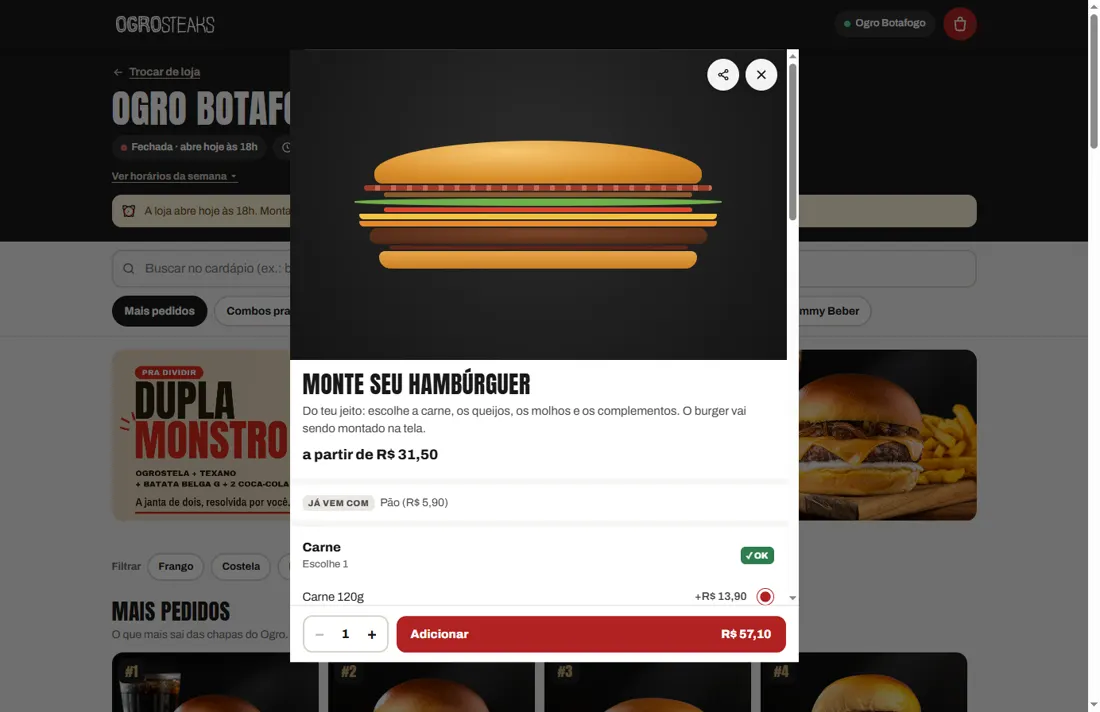
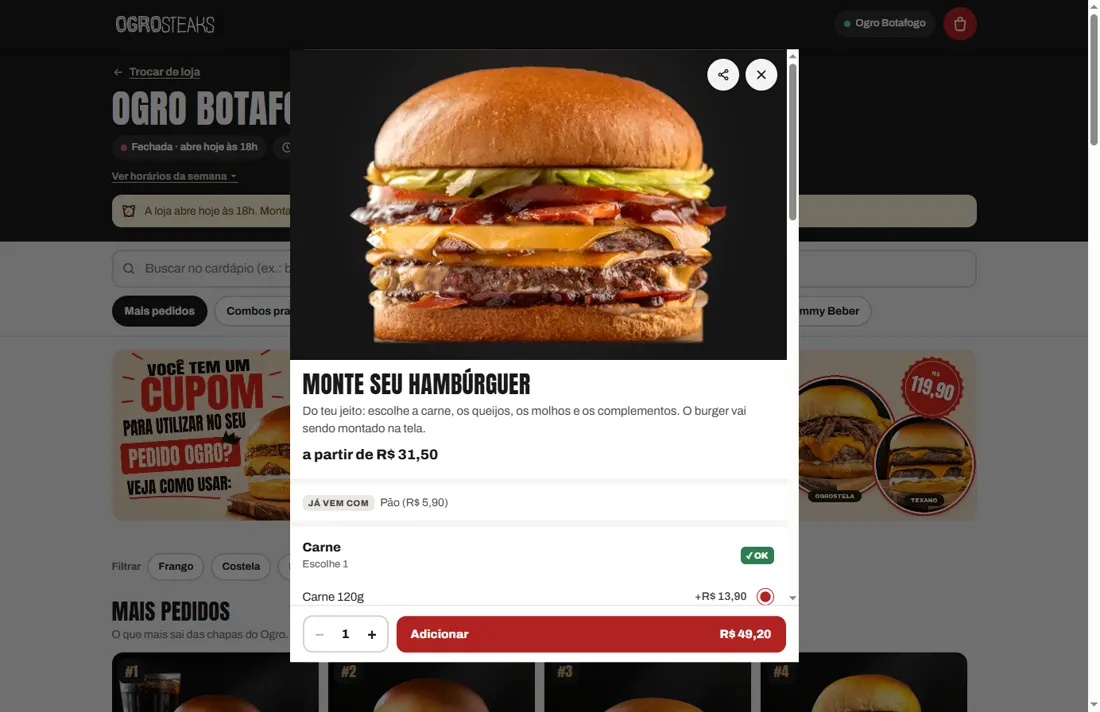
feat(databite-angular): so a comparacao atual, com o prototipo das 14h25 (#54)
- sai a secao 'O que mudou desde a 1a comparacao' e toda referencia a comparacao anterior
- secao 03 vira 'O que veio do Cardapio atual' (o atual faz / o prototipo faz)
- Monte seu hamburguer com as camadas reais (recortes das fotos do cardapio): print e textos novos
- 16 diferenciais, 13 em codigo, 34/34 testes, 44 eventos iguais ao prototipo

diff --git a/databite-angular/index.html b/databite-angular/index.html
@@ -158,7 +158,7 @@
   <div class="wrap">
     <span class="kicker">Piloto 1 · Databite Angular Migration Engine</span>
     <h1 class="display">Cardápio Digital: atual × <em>protótipo</em> × Angular</h1>
-    <p class="lead">O que o protótipo do Ogro faz a mais que o Cardápio Digital de hoje, e cada diferencial já escrito em TypeScript/Angular para o time da Databite revisar e integrar. Comparação refeita em 25/11, às 14h, com a versão do protótipo das 13h52.</p>
+    <p class="lead">O que o protótipo do Ogro faz a mais que o Cardápio Digital de hoje, e cada diferencial já escrito em TypeScript/Angular para o time da Databite revisar e integrar. Comparação feita em 25/11, às 14h30, com a versão do protótipo que está no ar.</p>
     <div class="chips">
       <span class="chip st-info">Prototype only</span>
       <span class="chip st-ok">Regras: 34/34 testes</span>
@@ -176,10 +176,9 @@
 
 <nav aria-label="Seções">
   <div class="wrap">
-    <a href="#novidades">O que mudou</a>
     <a href="#lado-a-lado">Lado a lado</a>
     <a href="#diferenciais">16 diferenciais</a>
-    <a href="#atual-melhor">O que o atual fazia melhor</a>
+    <a href="#atual-melhor">O que veio do atual</a>
     <a href="#arquitetura">Arquitetura</a>
     <a href="#status">Status e testes</a>
     <a href="#databite">O que falta da Databite</a>
@@ -187,17 +186,6 @@
 </nav>
 
 <main class="wrap">
-
-  <section id="novidades">
-    <div class="sec-h"><span class="n">00</span><h2>O que mudou desde a 1ª comparação</h2></div>
-    <p class="sec-sub">A 1ª versão desta página (13h10) comparava 12 diferenciais. O protótipo andou duas vezes depois disso, e a comparação foi refeita contra a versão no ar.</p>
-    <ul class="lista">
-      <li><b>Saíram o "vira combo" e o "Turbina teu burger", que eram simulados.</b> A ficha agora usa as opções reais do Cardápio Digital: Tamanho da fome 120 g/180 g, batata, bebida, "Leva junto com desconto", sachês e burgers do combo, com o mínimo, o máximo e o preço de cada um.</li>
-      <li><b>Tudo o que o Cardápio atual fazia melhor entrou no protótipo, e melhorado:</b> URL própria por produto com botão de compartilhar, "Monte seu hambúrguer" montado na tela, mais bebidas e ampliar imagem (cards 5, 11, 13 e 14).</li>
-      <li><b>Novos: acessibilidade AA e app instalável (PWA)</b> (cards 15 e 16). O Cardápio atual não tem manifesto nem service worker, ou seja, não instala na tela e não abre sem internet (verificado em 25/11).</li>
-      <li><b>No código:</b> 34 testes (eram 28) e lista de eventos alinhada com o protótipo (44 eventos; saiu o <code>upsell_combo</code>).</li>
-    </ul>
-  </section>
 
   <section id="lado-a-lado">
     <div class="sec-h"><span class="n">01</span><h2>Lado a lado</h2></div>
@@ -223,7 +211,7 @@
       <h3>Monte seu hambúrguer</h3>
       <div class="pair">
         <figure class="shot"><img src="img/atual-monte.webp" alt="Cardápio atual: Monte seu hambúrguer com foto de outro burger, preço R$ 0,00 e o grupo Pão obrigatório com uma opção só" width="1100" height="712" loading="lazy"><figcaption><span class="tag tag-atual">Atual</span><span>Foto de outro burger; R$ 0,00; pede para escolher o único pão</span></figcaption></figure>
-        <figure class="shot"><img src="img/prototipo-monte.webp" alt="Protótipo: Monte seu hambúrguer com o burger desenhado em camadas (pão, carne, queijos, bacon, alface, tomate), a partir de R$ 31,50, Já vem com Pão e total R$ 57,10" width="1100" height="712" loading="lazy"><figcaption><span class="tag tag-novo">Protótipo</span><span>O burger montado em camadas; "Já vem com Pão"; preço real</span></figcaption></figure>
+        <figure class="shot"><img src="img/prototipo-monte.webp" alt="Protótipo: Monte seu hambúrguer com o burger montado a partir de recortes das fotos do cardápio (pão, carne, queijos, barbecue, bacon, tomate, alface), a partir de R$ 31,50 e Já vem com Pão" width="1100" height="712" loading="lazy"><figcaption><span class="tag tag-novo">Protótipo</span><span>Burger montado com recortes das fotos do cardápio; "Já vem com Pão"</span></figcaption></figure>
       </div>
     </div>
   </section>
@@ -1421,10 +1409,11 @@
   { ga4: <span class="s">'erro_tecnico'</span>, quando: <span class="s">'Script quebrado ou foto/vídeo que não carregou (até 10 por sessão)'</span> },
 ];</code></pre></details>
       </article>
+
       <article class="dif" data-st="ok">
-        <div class="dif-top"><span class="dif-n">13</span><div><h3>“Monte seu hambúrguer” montado na tela</h3><div class="meta"><span class="chip st-ok">3 testes ok</span><span class="chip st-info">Grupos e preços do atual</span></div></div></div>
-        <div class="vs"><div><b>Atual</b>Vende o “Monte seu hambúrguer” com os grupos certos, mas mostra a foto de outro burger (Ogro Festival).</div><div class="novo"><b>Protótipo</b>Mesmos grupos e preços; o burger vai sendo montado com camadas REAIS, recortadas das fotos oficiais do cardápio (pão, carnes, queijos, salada, molhos), na ordem certa e com descrição para leitor de tela.</div></div>
-        <details class="cod"><summary>Ver código · monte.ts</summary><span class="arq-nome">src/app/features/cardapio/domain/monte.ts</span><pre><code><span class="k">import</span> <span class="k">type</span> { Produto, Selecao } <span class="k">from</span> <span class="s">'./models'</span>;
+        <div class="dif-top"><span class="dif-n">13</span><div><h3>"Monte seu hambúrguer" montado na tela</h3><div class="meta"><span class="chip st-ok">3 testes ok</span><span class="chip st-info">Grupos e preços do atual</span></div></div></div>
+        <div class="vs"><div><b>Atual</b>Vende com os grupos certos, mas mostra a foto de outro burger e o preço R$ 0,00.</div><div class="novo"><b>Protótipo</b>Mesmos grupos e preços, "a partir de R$ 31,50"; cada escolha vira uma camada recortada das fotos oficiais do cardápio, empilhada na ordem real; só a camada nova cai na tela; descrição para leitor de tela.</div></div>
+        <details class="cod"><summary>Ver código · monte.ts + monte-preview.component.ts</summary><span class="arq-nome">src/app/features/cardapio/domain/monte.ts</span><pre><code><span class="k">import</span> <span class="k">type</span> { Produto, Selecao } <span class="k">from</span> <span class="s">'./models'</span>;
 
 <span class="c">/**
  * DIFERENCIAL 13 · "Monte seu hambúrguer" montado na tela, com camadas REAIS.
@@ -1445,26 +1434,26 @@
 
 <span class="c">/** Largura × altura de cada recorte, em px, na mesma escala (pão de cima = 640). Saída do gerador. */</span>
 <span class="k">export</span> <span class="k">const</span> TAMANHO_CAMADA: Readonly&lt;Record&lt;ArquivoCamada, <span class="k">readonly</span> [number, number]&gt;&gt; = {
-  <span class="s">'pao-topo'</span>: [640, 206], <span class="s">'carne-120'</span>: [663, 67], <span class="s">'carne-180'</span>: [662, 93], american: [676, 65], cheddar: [677, 47], maionese: [663, 42],
-  smoke: [665, 42], barbecue: [664, 44], ketchup: [658, 35], bacon: [736, 68], alface: [686, 62], tomate: [673, 39],
-  <span class="s">'cebola-car'</span>: [664, 79], <span class="s">'cebola-roxa'</span>: [665, 42], picles: [656, 59], <span class="s">'pao-base'</span>: [640, 90],
+  <span class="s">'pao-topo'</span>: [<span class="n">640</span>, <span class="n">206</span>], <span class="s">'carne-120'</span>: [<span class="n">663</span>, <span class="n">67</span>], <span class="s">'carne-180'</span>: [<span class="n">662</span>, <span class="n">93</span>], american: [<span class="n">676</span>, <span class="n">65</span>], cheddar: [<span class="n">677</span>, <span class="n">47</span>], maionese: [<span class="n">663</span>, <span class="n">42</span>],
+  smoke: [<span class="n">665</span>, <span class="n">42</span>], barbecue: [<span class="n">664</span>, <span class="n">44</span>], ketchup: [<span class="n">658</span>, <span class="n">35</span>], bacon: [<span class="n">736</span>, <span class="n">68</span>], alface: [<span class="n">686</span>, <span class="n">62</span>], tomate: [<span class="n">673</span>, <span class="n">39</span>],
+  <span class="s">'cebola-car'</span>: [<span class="n">664</span>, <span class="n">79</span>], <span class="s">'cebola-roxa'</span>: [<span class="n">665</span>, <span class="n">42</span>], picles: [<span class="n">656</span>, <span class="n">59</span>], <span class="s">'pao-base'</span>: [<span class="n">640</span>, <span class="n">90</span>],
 };
 
 <span class="k">const</span> POR_NOME: ReadonlyArray&lt;<span class="k">readonly</span> [RegExp, ArquivoCamada]&gt; = [
   [/maionese de alho/, <span class="s">'maionese'</span>], [/smoke/, <span class="s">'smoke'</span>], [/ketchup/, <span class="s">'ketchup'</span>], [/barbecue/, <span class="s">'barbecue'</span>],
   [/american cheese/, <span class="s">'american'</span>], [/cheddar/, <span class="s">'cheddar'</span>], [/alface/, <span class="s">'alface'</span>], [/tomate/, <span class="s">'tomate'</span>], [/picles/, <span class="s">'picles'</span>],
-  [/cebola roxa/, <span class="s">'cebola-roxa'</span>], [/cebola caramelizada/, <span class="s">'cebola-car'</span>], [/bacon/, <span class="s">'bacon'</span>], [/180/, <span class="s">'carne-180'</span>], [/120/, <span class="s">'carne-120'</span>],
+  [/cebola roxa/, <span class="s">'cebola-roxa'</span>], [/cebola caramelizada/, <span class="s">'cebola-car'</span>], [/bacon/, <span class="s">'bacon'</span>], [/<span class="n">180</span>/, <span class="s">'carne-180'</span>], [/<span class="n">120</span>/, <span class="s">'carne-120'</span>],
 ];
 <span class="k">const</span> ORDEM_SALADA: ReadonlyArray&lt;ArquivoCamada&gt; = [<span class="s">'alface'</span>, <span class="s">'tomate'</span>, <span class="s">'picles'</span>, <span class="s">'cebola-roxa'</span>, <span class="s">'cebola-car'</span>, <span class="s">'bacon'</span>];
 
 <span class="k">const</span> semAcento = (s: string) =&gt; s.normalize(<span class="s">'NFD'</span>).replace(/[̀-ͯ]/g, <span class="s">''</span>).toLowerCase();
-<span class="k">const</span> arquivoDe = (nome: string): ArquivoCamada | null =&gt; POR_NOME.find(([re]) =&gt; re.test(semAcento(nome)))?.[1] ?? null;
+<span class="k">const</span> arquivoDe = (nome: string): ArquivoCamada | <span class="k">null</span> =&gt; POR_NOME.find(([re]) =&gt; re.test(semAcento(nome)))?.[<span class="n">1</span>] ?? <span class="k">null</span>;
 
 <span class="c">/** Nomes escolhidos num grupo (pelo título), na ordem das opções do cardápio. */</span>
 <span class="k">function</span> escolhidos(produto: Produto, sel: Selecao, titulo: string): string[] {
   <span class="k">const</span> g = produto.grupos.find(x =&gt; semAcento(x.titulo) === semAcento(titulo));
   <span class="k">if</span> (!g) <span class="k">return</span> [];
-  <span class="k">return</span> g.opcoes.filter(o =&gt; (sel[g.id]?.[o.id] ?? 0) &gt; 0).map(o =&gt; o.nome);
+  <span class="k">return</span> g.opcoes.filter(o =&gt; (sel[g.id]?.[o.id] ?? <span class="n">0</span>) &gt; <span class="n">0</span>).map(o =&gt; o.nome);
 }
 
 <span class="k">export</span> <span class="k">interface</span> CamadaPosicionada {
@@ -1484,25 +1473,24 @@
 }
 
 <span class="k">export</span> <span class="k">function</span> montarBurger(produto: Produto, sel: Selecao): Montagem {
-  <span class="k">const</span> carne = escolhidos(produto, sel, <span class="s">'Carne'</span>)[0];
+  <span class="k">const</span> carne = escolhidos(produto, sel, <span class="s">'Carne'</span>)[<span class="n">0</span>];
   <span class="k">const</span> queijos = escolhidos(produto, sel, <span class="s">'Queijos'</span>), molhos = escolhidos(produto, sel, <span class="s">'Molhos'</span>), compl = escolhidos(produto, sel, <span class="s">'Complementos'</span>);
   <span class="k">const</span> arqs = (xs: ReadonlyArray&lt;string&gt;) =&gt; xs.map(arquivoDe).filter((a): a is ArquivoCamada =&gt; !!a);
   <span class="k">const</span> salada = arqs(compl).sort((a, b) =&gt; ORDEM_SALADA.indexOf(a) - ORDEM_SALADA.indexOf(b));
-  <span class="k">const</span> ordem: Array&lt;ArquivoCamada | <span class="s">'vazio'</span>&gt; = [<span class="s">'pao-topo'</span>, ...arqs(molhos.slice(1)), ...salada, ...arqs(queijos),
-    carne ? (arquivoDe(carne) ?? <span class="s">'carne-120'</span>) : <span class="s">'vazio'</span>, ...arqs(molhos.slice(0, 1)), <span class="s">'pao-base'</span>];
-  <span class="k">const</span> L = 780; <span class="k">let</span> y = 0; <span class="k">const</span> camadas: CamadaPosicionada[] = [];
+  <span class="k">const</span> ordem: Array&lt;ArquivoCamada | <span class="s">'vazio'</span>&gt; = [<span class="s">'pao-topo'</span>, ...arqs(molhos.slice(<span class="n">1</span>)), ...salada, ...arqs(queijos),
+    carne ? (arquivoDe(carne) ?? <span class="s">'carne-120'</span>) : <span class="s">'vazio'</span>, ...arqs(molhos.slice(<span class="n">0</span>, <span class="n">1</span>)), <span class="s">'pao-base'</span>];
+  <span class="k">const</span> L = <span class="n">780</span>; <span class="k">let</span> y = <span class="n">0</span>; <span class="k">const</span> camadas: CamadaPosicionada[] = [];
   ordem.forEach((a, k) =&gt; {
-    <span class="k">const</span> [w, h] = a === <span class="s">'vazio'</span> ? [600, 70] : TAMANHO_CAMADA[a];
-    <span class="k">const</span> anterior = ordem[k - 1];
-    <span class="k">if</span> (k &amp;&amp; a !== <span class="s">'vazio'</span> &amp;&amp; anterior !== <span class="s">'vazio'</span>) y -= Math.round(h * 0.28) + (anterior === <span class="s">'pao-topo'</span> ? 14 : 0);
-    else <span class="k">if</span> (a === <span class="s">'vazio'</span>) y += 8;
-    camadas.push({ arquivo: a, x: (L - w) / 2, y, largura: w, altura: h });
+    <span class="k">const</span> [w, h] = a === <span class="s">'vazio'</span> ? [<span class="n">600</span>, <span class="n">70</span>] : TAMANHO_CAMADA[a];
+    <span class="k">const</span> anterior = ordem[k - <span class="n">1</span>];
+    <span class="k">if</span> (k &amp;&amp; a !== <span class="s">'vazio'</span> &amp;&amp; anterior !== <span class="s">'vazio'</span>) y -= Math.round(h * <span class="n">0.28</span>) + (anterior === <span class="s">'pao-topo'</span> ? <span class="n">14</span> : <span class="n">0</span>);
+    <span class="k">else</span> <span class="k">if</span> (a === <span class="s">'vazio'</span>) y += <span class="n">8</span>;
+    camadas.push({ arquivo: a, x: (L - w) / <span class="n">2</span>, y, largura: w, altura: h });
     y += h;
   });
   <span class="k">const</span> itens = [carne, ...queijos, ...molhos, ...compl].filter(Boolean);
   <span class="k">return</span> { camadas, largura: L, altura: y, temCarne: !!carne, descricao: itens.length ? <span class="s">`Teu burger: ${itens.join(', ')}`</span> : <span class="s">'Monte teu burger'</span> };
-}
-</code></pre></details><details class="cod"><summary>Ver código · monte-preview.component.ts</summary><span class="arq-nome">src/app/features/cardapio/ui/monte-preview.component.ts</span><pre><code><span class="k">import</span> { ChangeDetectionStrategy, Component, computed, input } <span class="k">from</span> <span class="s">'@angular/core'</span>;
+}</code></pre><span class="arq-nome">src/app/features/cardapio/ui/monte-preview.component.ts</span><pre><code><span class="k">import</span> { ChangeDetectionStrategy, Component, computed, input } <span class="k">from</span> <span class="s">'@angular/core'</span>;
 <span class="k">import</span> <span class="k">type</span> { Montagem } <span class="k">from</span> <span class="s">'../domain/monte'</span>;
 
 <span class="c">/**
@@ -1515,7 +1503,7 @@
  * - para leitor de tela, o desenho é UMA imagem com a descrição do burger (role="img");
  * - com "menos movimento", nada anima.
  */</span>
-@Component({
+<span class="d">@Component</span>({
   selector: <span class="s">'app-monte-preview'</span>,
   standalone: <span class="k">true</span>,
   changeDetection: ChangeDetectionStrategy.OnPush,
@@ -1548,16 +1536,16 @@
   <span class="c">/** Pasta das camadas (CDN da Databite quando existir; no protótipo, 'img'). */</span>
   <span class="k">readonly</span> base = input(<span class="s">'img'</span>);
 
-  <span class="k">protected</span> <span class="k">readonly</span> viewBox = computed(() =&gt; <span class="s">`-10 -16 ${this.montagem().largura + 20} ${this.montagem().altura + 32}`</span>);
+  protected <span class="k">readonly</span> viewBox = computed(() =&gt; <span class="s">`-10 -16 ${this.montagem().largura + 20} ${this.montagem().altura + 32}`</span>);
   <span class="c">/** Ordem de desenho: de baixo para cima; o "vazio" por último (por cima). */</span>
-  <span class="k">protected</span> <span class="k">readonly</span> ordemDesenho = computed(() =&gt;
-    [...this.montagem().camadas].reverse().sort((a, b) =&gt; Number(a.arquivo === <span class="s">'vazio'</span>) - Number(b.arquivo === <span class="s">'vazio'</span>)));
-}
-</code></pre></details>
+  protected <span class="k">readonly</span> ordemDesenho = computed(() =&gt;
+    [...<span class="k">this</span>.montagem().camadas].reverse().sort((a, b) =&gt; Number(a.arquivo === <span class="s">'vazio'</span>) - Number(b.arquivo === <span class="s">'vazio'</span>)));
+}</code></pre></details>
       </article>
-      <article class="dif" data-st="ok">
-        <div class="dif-top"><span class="dif-n">14</span><div><h3>Ampliar imagem e “Já vem com”</h3><div class="meta"><span class="chip st-ok">3 testes ok</span><span class="chip st-warn">Componente · sem teste</span></div></div></div>
-        <div class="vs"><div><b>Atual</b>Tem “Ampliar imagem”; pede toque até em grupo de uma opção só e não pré-marca a opção grátis.</div><div class="novo"><b>Protótipo</b>Foto grande só baixa quando o cliente pede e aproxima no toque; grupo de uma opção vem marcado; Fome normal e Batata P vêm marcadas (nunca opção paga).</div></div>
+
+      <article class="dif" data-st="parcial">
+        <div class="dif-top"><span class="dif-n">14</span><div><h3>Ampliar imagem, sem pesar</h3><div class="meta"><span class="chip st-warn">Angular · sem teste</span></div></div></div>
+        <div class="vs"><div><b>Atual</b>"Ampliar imagem".</div><div class="novo"><b>Protótipo</b>A foto grande (até 1200 px, AVIF ~45 KB) só baixa quando o cliente toca; o toque aproxima no ponto tocado; Esc ou toque fora fecha.</div></div>
         <details class="cod"><summary>Ver código · zoom-foto.component.ts</summary><span class="arq-nome">src/app/features/cardapio/ui/zoom-foto.component.ts</span><pre><code><span class="k">import</span> { ChangeDetectionStrategy, Component, ElementRef, afterNextRender, inject, input, output, signal, viewChild } <span class="k">from</span> <span class="s">'@angular/core'</span>;
 
 <span class="c">/**
@@ -1568,7 +1556,7 @@
  * - Foco vai para o ✕ ao abrir; quem abriu devolve o foco ao fechar (padrão das camadas da casa).
  * Formatos: AVIF com WebP de reserva (bancada de 25/11: AVIF ~24% menor na mesma nitidez).
  */</span>
-@Component({
+<span class="d">@Component</span>({
   selector: <span class="s">'app-zoom-foto'</span>,
   standalone: <span class="k">true</span>,
   changeDetection: ChangeDetectionStrategy.OnPush,
@@ -1600,138 +1588,35 @@
   <span class="c">/** Caminho da foto grande SEM extensão (ex.: 'img/z-mcmanis'); vem do campo de mídia do produto (B16). */</span>
   <span class="k">readonly</span> base = input.required&lt;string&gt;();
   <span class="k">readonly</span> nome = input.required&lt;string&gt;();
-  <span class="k">readonly</span> fechar = output&lt;void&gt;();
+  <span class="k">readonly</span> fechar = output&lt;<span class="k">void</span>&gt;();
 
-  <span class="k">protected</span> <span class="k">readonly</span> perto = signal(<span class="k">false</span>);
+  protected <span class="k">readonly</span> perto = signal(<span class="k">false</span>);
   <span class="k">private</span> <span class="k">readonly</span> caixa = viewChild.required&lt;ElementRef&lt;HTMLElement&gt;&gt;(<span class="s">'caixa'</span>);
   <span class="k">private</span> <span class="k">readonly</span> fecharBt = viewChild.required&lt;ElementRef&lt;HTMLButtonElement&gt;&gt;(<span class="s">'fecharBt'</span>);
 
   constructor() {
-    afterNextRender(() =&gt; this.fecharBt().nativeElement.focus({ preventScroll: <span class="k">true</span> }));
+    afterNextRender(() =&gt; <span class="k">this</span>.fecharBt().nativeElement.focus({ preventScroll: <span class="k">true</span> }));
   }
 
-  <span class="k">protected</span> alternar(ev: MouseEvent): void {
+  protected alternar(ev: MouseEvent): <span class="k">void</span> {
     ev.stopPropagation();
-    <span class="k">const</span> img = ev.target as HTMLImageElement, r = img.getBoundingClientRect();
+    <span class="k">const</span> img = ev.target <span class="k">as</span> HTMLImageElement, r = img.getBoundingClientRect();
     <span class="k">const</span> fx = (ev.clientX - r.left) / r.width, fy = (ev.clientY - r.top) / r.height;
-    this.perto.update(v =&gt; !v);
-    <span class="k">if</span> (this.perto()) {
+    <span class="k">this</span>.perto.update(v =&gt; !v);
+    <span class="k">if</span> (<span class="k">this</span>.perto()) {
       requestAnimationFrame(() =&gt; {
-        <span class="k">const</span> c = this.caixa().nativeElement;
-        c.scrollLeft = fx * c.scrollWidth - c.clientWidth / 2;
-        c.scrollTop = fy * c.scrollHeight - c.clientHeight / 2;
+        <span class="k">const</span> c = <span class="k">this</span>.caixa().nativeElement;
+        c.scrollLeft = fx * c.scrollWidth - c.clientWidth / <span class="n">2</span>;
+        c.scrollTop = fy * c.scrollHeight - c.clientHeight / <span class="n">2</span>;
       });
     }
   }
 
-  <span class="k">protected</span> fora(ev: MouseEvent): void {
-    <span class="k">const</span> alvo = ev.target as HTMLElement;
-    <span class="k">if</span> (alvo.classList.contains(<span class="s">'zoom'</span>) || alvo.classList.contains(<span class="s">'zoom__foto'</span>)) this.fechar.emit();
+  protected fora(ev: MouseEvent): <span class="k">void</span> {
+    <span class="k">const</span> alvo = ev.target <span class="k">as</span> HTMLElement;
+    <span class="k">if</span> (alvo.classList.contains(<span class="s">'zoom'</span>) || alvo.classList.contains(<span class="s">'zoom__foto'</span>)) <span class="k">this</span>.fechar.emit();
   }
-}
-</code></pre></details><details class="cod"><summary>Ver código · selecao.ts</summary><span class="arq-nome">src/app/features/cardapio/domain/selecao.ts</span><pre><code><span class="k">import</span> <span class="k">type</span> { Centavos, GrupoOpcoes, Produto, Selecao } <span class="k">from</span> <span class="s">'./models'</span>;
-
-<span class="c">/**
- * DIFERENCIAL 5 · Ficha do produto que guia a escolha.
- *
- * Ficamos com o melhor de cada lado:
- * - Do Cardápio atual, o MODELO: grupos com mínimo, máximo e obrigatório, vindos da API.
- *   O protótipo tinha regras fixas por tipo de produto e isso não escala.
- * - Do protótipo, a EXPERIÊNCIA: o botão diz o que falta ("Escolhe a bebida",
- *   "Escolhe mais 2"), o preço atualiza na hora e um grupo condicional só aparece quando faz sentido.
- */</span>
-
-<span class="k">const</span> total = (sel: Selecao, grupoId: string): number =&gt;
-  Object.values(sel[grupoId] ?? {}).reduce((a, b) =&gt; a + b, 0);
-
-<span class="c">/**
- * Seleção inicial da ficha (protótipo, 25/11 · "o que o atual faz melhor, faça melhor também"):
- * - grupo obrigatório de UMA opção só ("Pão", "Pegue seu Ogrostela") já vem marcado e aparece como "Já vem com";
- * - grupo obrigatório de 1 escolha em que só UMA opção é grátis e as outras custam (Fome normal × Fome de Ogro,
- *   Batata P × G) já vem com a grátis: o cliente só toca se quiser mudar. Nunca pré-marca opção paga.
- * Bebida (todas grátis) continua sem pré-seleção: o sabor é escolha do cliente.
- */</span>
-<span class="k">export</span> <span class="k">function</span> selecaoPadrao(produto: Produto): Selecao {
-  <span class="k">const</span> sel: Record&lt;string, Record&lt;string, number&gt;&gt; = {};
-  <span class="k">for</span> (<span class="k">const</span> g <span class="k">of</span> produto.grupos) {
-    <span class="k">if</span> (g.visivelSe || g.min &lt; 1) continue;
-    <span class="k">if</span> (g.opcoes.length === 1 &amp;&amp; g.max === 1) { sel[g.id] = { [g.opcoes[0].id]: 1 }; continue; }
-    <span class="k">if</span> (g.min === 1 &amp;&amp; g.max === 1) {
-      <span class="k">const</span> gratis = g.opcoes.filter(o =&gt; o.preco === 0);
-      <span class="k">if</span> (gratis.length === 1 &amp;&amp; g.opcoes.length &gt; 1) sel[g.id] = { [gratis[0].id]: 1 };
-    }
-  }
-  <span class="k">return</span> sel;
-}
-
-<span class="c">/** Grupos que vêm resolvidos (uma opção só): a tela mostra numa linha "Já vem com", sem pedir toque. */</span>
-<span class="k">export</span> <span class="k">const</span> jaVemCom = (produto: Produto): ReadonlyArray&lt;GrupoOpcoes&gt; =&gt;
-  produto.grupos.filter(g =&gt; g.min &gt;= 1 &amp;&amp; g.max === 1 &amp;&amp; g.opcoes.length === 1 &amp;&amp; !g.visivelSe);
-
-<span class="c">/** Grupos que aparecem agora (respeita `visivelSe`, ex.: bebida só depois de marcar um combo). */</span>
-<span class="k">export</span> <span class="k">function</span> gruposVisiveis(produto: Produto, sel: Selecao): GrupoOpcoes[] {
-  <span class="k">return</span> produto.grupos.filter(g =&gt; !g.visivelSe || (sel[g.visivelSe.grupoId]?.[g.visivelSe.opcaoId] ?? 0) &gt; 0);
-}
-
-<span class="c">/** Texto do que falta, na ordem dos grupos. Vazio = pode adicionar. */</span>
-<span class="k">export</span> <span class="k">function</span> oQueFalta(produto: Produto, sel: Selecao): string {
-  <span class="k">for</span> (<span class="k">const</span> g <span class="k">of</span> gruposVisiveis(produto, sel)) {
-    <span class="k">const</span> n = total(sel, g.id);
-    <span class="k">if</span> (n &lt; g.min) {
-      <span class="k">if</span> (g.min === 1 &amp;&amp; g.max === 1) <span class="k">return</span> <span class="s">`Escolhe: ${g.titulo}`</span>;
-      <span class="k">return</span> <span class="s">`Escolhe mais ${g.min - n}`</span>;
-    }
-  }
-  <span class="k">return</span> <span class="s">''</span>;
-}
-
-<span class="c">/** Pode somar mais uma unidade desta opção sem passar do máximo do grupo? */</span>
-<span class="k">export</span> <span class="k">function</span> podeAumentar(grupo: GrupoOpcoes, sel: Selecao, opcaoId: string): boolean {
-  <span class="k">if</span> (total(sel, grupo.id) &gt;= grupo.max) <span class="k">return</span> <span class="k">false</span>;
-  <span class="k">return</span> grupo.repetir || (sel[grupo.id]?.[opcaoId] ?? 0) === 0;
-}
-
-<span class="c">/**
- * Aplica um toque numa opção e devolve a NOVA seleção (imutável, bom para signals/OnPush).
- * - Rádio (max 1, sem repetir): marcar outra opção substitui a anterior; tocar de novo desmarca
- *   quando o grupo é opcional (min 0), como um checkbox.
- * - Desmarcou a opção que abria um grupo condicional? O grupo sai junto: ninguém paga por grupo escondido.
- */</span>
-<span class="k">export</span> <span class="k">function</span> alternar(produto: Produto, grupo: GrupoOpcoes, sel: Selecao, opcaoId: string, delta: 1 | -1): Selecao {
-  <span class="k">const</span> atual: Record&lt;string, number&gt; = { ...(sel[grupo.id] ?? {}) };
-  <span class="k">if</span> (grupo.max === 1 &amp;&amp; !grupo.repetir) {
-    <span class="k">const</span> marcada = (atual[opcaoId] ?? 0) &gt; 0;
-    <span class="k">const</span> proximo = delta === 1 &amp;&amp; !(marcada &amp;&amp; grupo.min === 0) ? { [opcaoId]: 1 } : {};
-    <span class="k">return</span> normalizar(produto, { ...sel, [grupo.id]: proximo });
-  }
-  <span class="k">if</span> (delta === 1 &amp;&amp; !podeAumentar(grupo, sel, opcaoId)) <span class="k">return</span> sel;
-  <span class="k">const</span> novo = Math.max(0, (atual[opcaoId] ?? 0) + delta);
-  <span class="k">if</span> (novo === 0) delete atual[opcaoId];
-  else atual[opcaoId] = novo;
-  <span class="k">return</span> normalizar(produto, { ...sel, [grupo.id]: atual });
-}
-
-<span class="c">/** Remove escolhas de grupos que deixaram de ser visíveis. */</span>
-<span class="k">export</span> <span class="k">function</span> normalizar(produto: Produto, sel: Selecao): Selecao {
-  <span class="k">const</span> visiveis = <span class="k">new</span> Set(gruposVisiveis(produto, sel).map(g =&gt; g.id));
-  <span class="k">return</span> Object.fromEntries(Object.entries(sel).filter(([id]) =&gt; visiveis.has(id)));
-}
-
-<span class="c">/** Preço unitário estimado: base + soma das opções × quantidade. O servidor confirma (B6). */</span>
-<span class="k">export</span> <span class="k">function</span> precoUnitario(produto: Produto, sel: Selecao): Centavos {
-  <span class="k">let</span> valor = produto.preco;
-  <span class="k">for</span> (<span class="k">const</span> g <span class="k">of</span> gruposVisiveis(produto, sel)) {
-    <span class="k">for</span> (<span class="k">const</span> o <span class="k">of</span> g.opcoes) valor += o.preco * (sel[g.id]?.[o.id] ?? 0);
-  }
-  <span class="k">return</span> valor;
-}
-
-<span class="c">/** Chave estável do item na sacola: mesma escolha = mesmo item (soma quantidade). */</span>
-<span class="k">export</span> <span class="k">function</span> chaveItem(produtoId: string, sel: Selecao, ajustes: ReadonlyArray&lt;string&gt; = []): string {
-  <span class="k">const</span> ordenada = Object.keys(sel).sort().map(g =&gt; [g, Object.entries(sel[g]).sort(([a], [b]) =&gt; a.localeCompare(b))]);
-  <span class="k">return</span> <span class="s">`${produtoId}|${JSON.stringify(ordenada)}|${[...ajustes].sort().join(',')}`</span>;
-}
-</code></pre></details>
+}</code></pre></details>
       </article>
 
       <article class="dif" data-st="bloq">
@@ -1751,14 +1636,14 @@
   </section>
 
   <section id="atual-melhor">
-    <div class="sec-h"><span class="n">03</span><h2>O que o atual fazia melhor</h2></div>
-    <p class="sec-sub">Na 1ª comparação, o Cardápio atual ganhava em cinco pontos. Os cinco entraram no protótipo, e com alguma melhora.</p>
+    <div class="sec-h"><span class="n">03</span><h2>O que veio do Cardápio atual</h2></div>
+    <p class="sec-sub">Cinco coisas que o Cardápio atual já faz bem. O protótipo faz as cinco, com alguma melhora.</p>
     <div class="tabela"><table>
-      <thead><tr><th>O atual tinha</th><th>O protótipo agora faz</th><th>Código</th></tr></thead>
+      <thead><tr><th>O atual faz</th><th>O protótipo faz</th><th>Código</th></tr></thead>
       <tbody>
         <tr><td>Opções reais, com mínimo, máximo e preço</td><td>As mesmas opções, mais "Já vem com" e a opção grátis já marcada</td><td>selecao.ts</td></tr>
         <tr><td>URL própria por produto</td><td>URL legível, compartilhar, e voltar do celular fecha a ficha</td><td>link-direto.ts</td></tr>
-        <tr><td>"Monte seu hambúrguer"</td><td>Montado na tela em camadas, com o preço real</td><td>monte.ts</td></tr>
+        <tr><td>"Monte seu hambúrguer"</td><td>Montado na tela com recortes das fotos do cardápio, com o preço real</td><td>monte.ts</td></tr>
         <tr><td>Mais bebidas</td><td>Pepsi (lata, Black, 1,5 l, 2 l), Antarctica Soda, tamanhos de Guaraná, água com e sem gás, H2OH Limoneto</td><td>Dados do cardápio (B3)</td></tr>
         <tr><td>Ampliar imagem</td><td>Foto grande só quando o cliente pede; toque aproxima</td><td>zoom-foto.component.ts</td></tr>
       </tbody>
@@ -1772,7 +1657,7 @@
       <div class="camada pura"><h3>domain/</h3><p>Regras de negócio: horários, seleção e "Já vem com", Monte seu hambúrguer, cupom, agendamento, busca, link de campanha. Dinheiro em centavos inteiros.</p><ul><li>11 arquivos + 5 de testes</li><li>Funções puras: recebem a hora, não leem o relógio</li></ul></div>
       <div class="camada"><h3>state/</h3><p>Sacola com signals, com persistência, "Desfazer" e editar. Link de campanha pendente.</p><ul><li>Armazenamento trocável por token de injeção</li></ul></div>
       <div class="camada"><h3>data-access/</h3><p>Medição única: dataLayer e Meta, só com consentimento e com o mesmo event_id. Mapa dos 44 eventos, igual ao do protótipo.</p><ul><li>Nunca envia nome, telefone ou endereço</li></ul></div>
-      <div class="camada"><h3>ui/</h3><p>Diretivas de vídeo e de impressão, animação da sacola, "Completa teu pedido?", burger montado em camadas e foto ampliada (OnPush).</p><ul><li>Respeita "menos movimento" e economia de dados</li></ul></div>
+      <div class="camada"><h3>ui/</h3><p>Diretivas de vídeo e de impressão, animação da sacola, "Completa teu pedido?", burger montado com as camadas reais (SVG) e foto ampliada (OnPush).</p><ul><li>Respeita "menos movimento" e economia de dados</li></ul></div>
     </div>
   </section>
 
